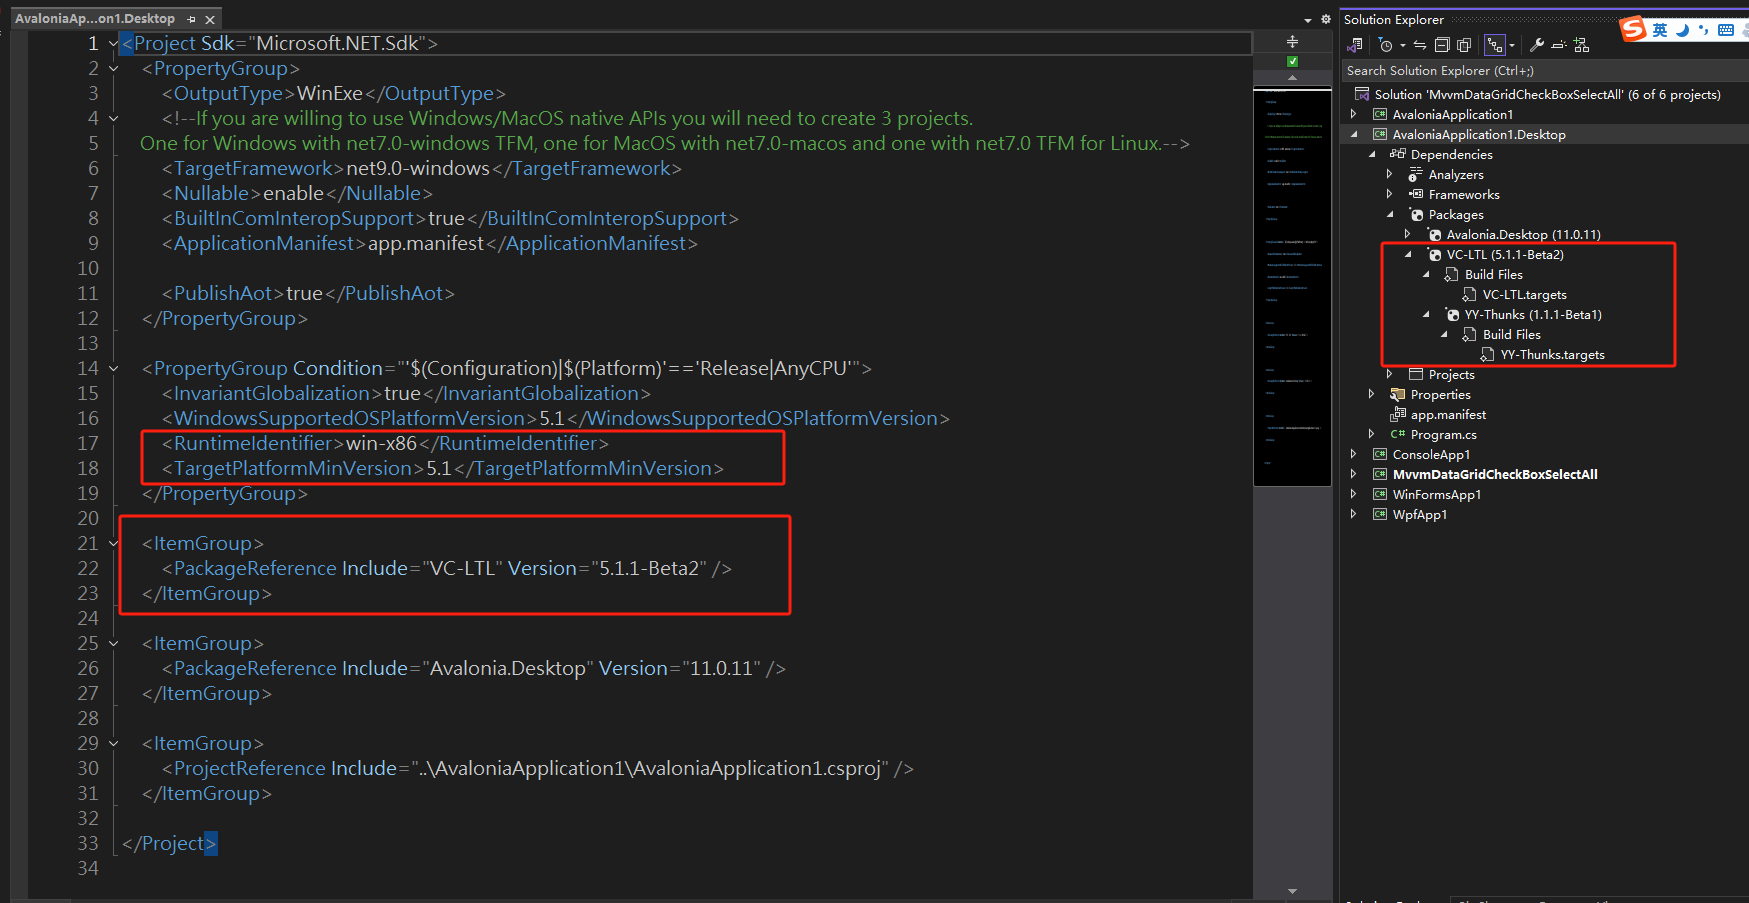
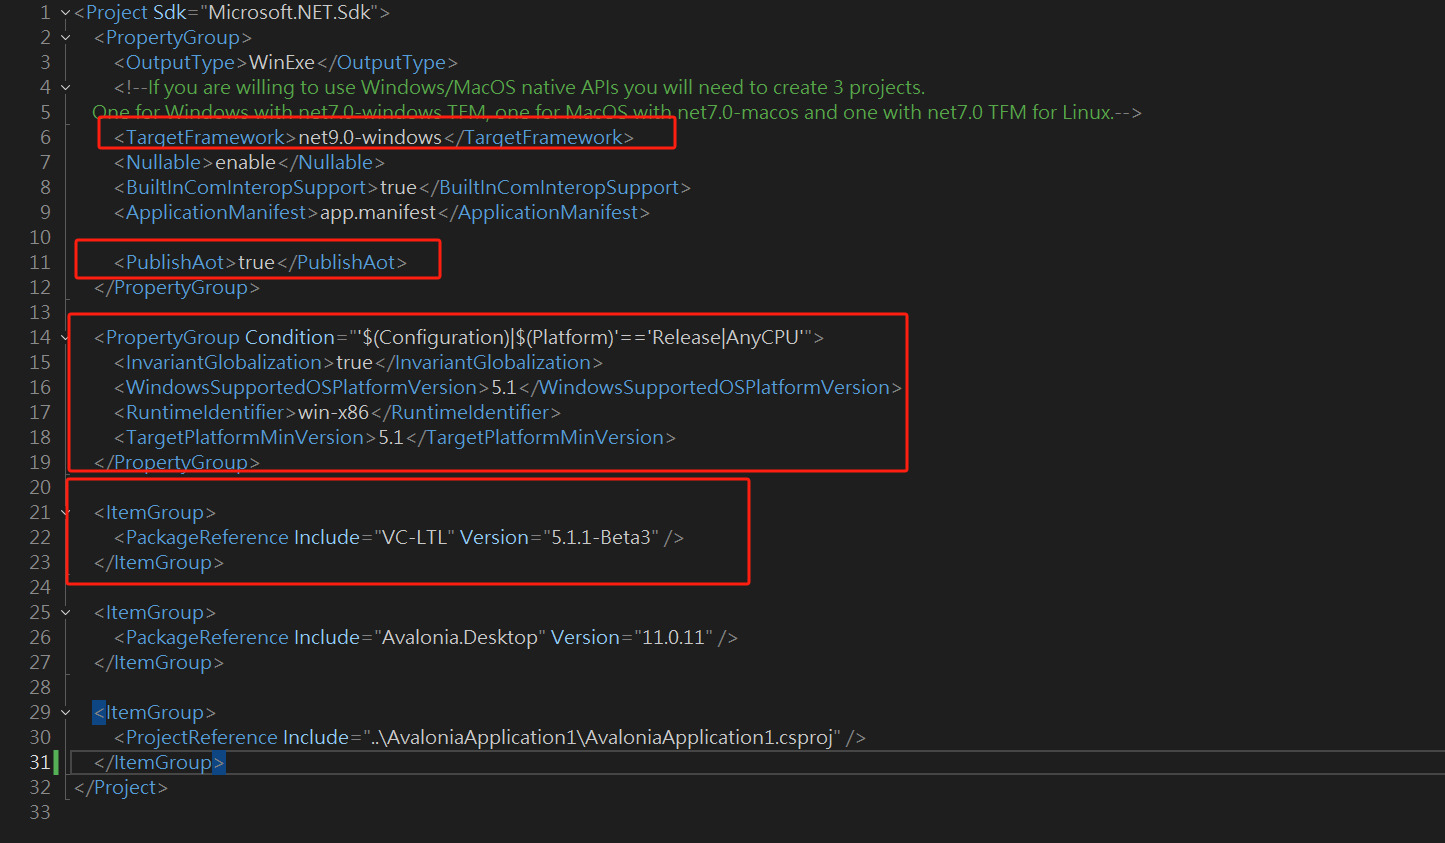
add xp config description;

Changed region(s): [[0.0, 0.0, 1.0, 1.0]]

diff --git a/2024/07/good-news-breakthrough-in-net-9-x86-aot-supports-old-win7-and-xp-environments.md b/2024/07/good-news-breakthrough-in-net-9-x86-aot-supports-old-win7-and-xp-environments.md
@@ -35,21 +35,39 @@ tags: .NET 9,AOT,X86,Win7,XP,SP1
 
 Winform都可以 x86 aot运行..
 
-![](https://img1.dotnet9.com/2024/07/0706.png)
+![](https://img1.dotnet9.com/2024/07/0707.png)
+
+Winform工程配置如下：
+
+![](https://img1.dotnet9.com/2024/07/0710.png)
 
 ## XP支持（理论）
 
-XP存在理论上运行可能行，网友反馈XP还不能直接运行：
+目前测试可运行控制台程序：
 
 ![](https://img1.dotnet9.com/2024/07/0703.png)
+
+网友得出结论：
+
+![](https://img1.dotnet9.com/2024/07/0711.png)
 
 XP需要链接YY-Thunks，参考链接：https://github.com/Chuyu-Team/YY-Thunks
 
 ![](https://img1.dotnet9.com/2024/07/0704.png)
 
-有尝试成功的朋友可以联系站长完善这篇文章，另外大家可关注YY-Thunks这个ISSUE：https://github.com/Chuyu-Team/YY-Thunks/issues/66
+大家可关注YY-Thunks这个ISSUE：https://github.com/Chuyu-Team/YY-Thunks/issues/66
 
 ![](https://img1.dotnet9.com/2024/07/0708.png)
+
+
+
+控制台支持XP的工程配置如下：
+
+![](https://img1.dotnet9.com/2024/07/0712.jpg)
+
+网友心得：
+
+![](https://img1.dotnet9.com/2024/07/0713.png)
 
 ## 小知识分享
 

diff --git a/2024/06/avalonia-ui-project-offline-development-guide-one-stop-solution-for-ide-installation-template-application-and-nu-get-private-deploymentavalonia-ui-project-offline-development-guide-one-stop-solution-for-id.md b/2024/06/avalonia-ui-project-offline-development-guide-one-stop-solution-for-ide-installation-template-application-and-nu-get-private-deploymentavalonia-ui-project-offline-development-guide-one-stop-solution-for-id.md
@@ -166,6 +166,8 @@ NuGet首页也能搜索到了：
 
 剩下的就和平时安装包一致了。
 
+`小知识：个人临时开发可将上面的源配置为本地NuGet目录路径。`
+
 ## 8. 总结
 
 本文介绍了如何在本地网络环境中成功安装并配置AvaloniaUI所需的开发工具和模板，以及如何部署私有NuGet服务并制作及上传NuGet包以便团队内部成员之间共享和管理NuGet包。
